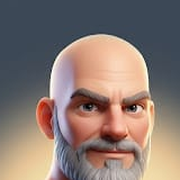
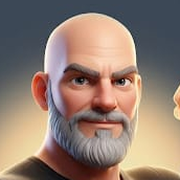
Add files via upload

diff --git a/index.html b/index.html
@@ -3,7 +3,7 @@
 <head>
 <meta charset="utf-8">
 <meta name="viewport" content="width=device-width, initial-scale=1, viewport-fit=cover">
-<title>Highschool English Practice</title>
+<title>English with Rami</title>
 <meta name="description" content="Vocabulary, grammar, unseens, movies and games for high school English.">
 <meta name="theme-color" content="#14244d">
 <link rel="manifest" href="manifest.webmanifest">
@@ -11,7 +11,7 @@
 <link rel="apple-touch-icon" href="apple-touch-icon.png">
 <meta name="apple-mobile-web-app-capable" content="yes">
 <meta name="mobile-web-app-capable" content="yes">
-<meta name="apple-mobile-web-app-title" content="English Practice">
+<meta name="apple-mobile-web-app-title" content="English with Rami">
 <meta name="apple-mobile-web-app-status-bar-style" content="black-translucent">
 <style>
   :root{ --navy:#14244d; --bg:#eef2f9; }
@@ -19,8 +19,9 @@
   body{ padding-top:env(safe-area-inset-top,0px); box-sizing:border-box; font:16px system-ui,-apple-system,Segoe UI,Roboto,sans-serif; color:var(--navy); }
   iframe{ position:absolute; inset:env(safe-area-inset-top,0px) 0 0 0; width:100%; height:calc(100% - env(safe-area-inset-top,0px)); border:0; background:var(--bg); }
   .splash{ position:fixed; inset:0; display:grid; place-items:center; background:var(--navy); color:#fff; z-index:5; transition:opacity .5s; text-align:center; padding:24px; }
-  .splash img{ width:120px; height:120px; border-radius:50%; border:4px solid #fff; box-shadow:0 10px 30px rgba(0,0,0,.35); animation:b 1.2s ease-in-out infinite; }
-  .splash b{ display:block; font-size:22px; margin-top:16px; } .splash span{ opacity:.8; font-size:15px; }
+  .splash img{ display:block; margin:0 auto; width:min(220px,56vw); height:min(220px,56vw); object-fit:cover; border-radius:50%; border:5px solid #fff; box-shadow:0 10px 30px rgba(0,0,0,.35); animation:b 1.2s ease-in-out infinite; }
+  .splash b{ display:block; font-size:24px; margin-top:20px; }
+  .splash > div{ display:flex; flex-direction:column; align-items:center; } .splash span{ opacity:.8; font-size:15px; }
   .splash.hide{ opacity:0; pointer-events:none; }
   @keyframes b{ 50%{ transform:translateY(-8px); } }
   .msg{ position:fixed; inset:0; display:none; place-items:center; background:var(--bg); z-index:6; padding:24px; text-align:center; }
@@ -28,16 +29,16 @@
 </style>
 </head>
 <body>
-<div class="splash" id="splash"><div><img src="icon-192.png" alt=""><b>Highschool English Practice</b><span>Loading… let’s go, champ! 💪</span></div></div>
+<div class="splash" id="splash"><div><img src="splash.jpg" alt=""><b>English with Rami</b><span>Loading… let’s go, champ! 💪</span></div></div>
 <div class="msg" id="off"><div><div style="font-size:54px">📶</div><b style="font-size:20px">No internet connection</b><div>Connect to Wi-Fi or mobile data and try again.</div><button onclick="location.reload()">Try again</button></div></div>
+<script src="config.js"></script>
 <script>
-/* ✏ THE ONLY LINE TO CHANGE: the link of your Apps Script site (it ends with /exec) */
-var APP_URL = 'https://script.google.com/macros/s/AKfycbxlo4QKexVxkwiVD4yF8-RNtKICDMcgAr6I-GMUMeyn0V5OEXt8GFEP-Q0lAGgZblEk/exec';
+var APP_URL = window.APP_URL || '';
 
 (function(){
   var splash=document.getElementById('splash'), off=document.getElementById('off');
   if(!/^https:\/\/script\.google\.com\/.+\/exec/.test(APP_URL)){
-    splash.innerHTML='<div><b>Almost ready!</b><span>Paste the link of the site (it ends with /exec) in index.html, in the line APP_URL.</span></div>';
+    splash.innerHTML='<div><b>Almost ready!</b><span>Paste the link of the site (it ends with /exec) in config.js.</span></div>';
     return;
   }
   if(navigator.onLine===false){ off.classList.add('on'); splash.classList.add('hide'); }
@@ -45,7 +46,7 @@ var APP_URL = 'https://script.google.com/macros/s/AKfycbxlo4QKexVxkwiVD4yF8-RNtK
   f.src=APP_URL+(location.search||'');          // ?page=teacher works too
   f.allow='autoplay; clipboard-write; fullscreen';
   f.setAttribute('allowfullscreen','');
-  f.title='Highschool English Practice';
+  f.title='English with Rami';
   f.onload=function(){ setTimeout(function(){ splash.classList.add('hide'); },300); };
   document.body.appendChild(f);
   setTimeout(function(){ splash.classList.add('hide'); },12000);

diff --git a/sw.js b/sw.js
@@ -1,5 +1,5 @@
 /* keeps the app's own small files on the phone, so it opens fast; the lessons themselves always come from the site */
-var C='english-practice-v1', FILES=['./','index.html','manifest.webmanifest','icon-192.png','icon-512.png','apple-touch-icon.png','favicon.png'];
+var C='english-practice-v3', FILES=['./','index.html','config.js','splash.jpg','manifest.webmanifest','icon-192.png','icon-512.png','apple-touch-icon.png','favicon.png'];
 self.addEventListener('install',function(e){ e.waitUntil(caches.open(C).then(function(c){ return c.addAll(FILES); })); self.skipWaiting(); });
 self.addEventListener('activate',function(e){ e.waitUntil(caches.keys().then(function(k){ return Promise.all(k.filter(function(x){ return x!==C; }).map(function(x){ return caches.delete(x); })); })); self.clients.claim(); });
 self.addEventListener('fetch',function(e){

diff --git a/config.js b/config.js
@@ -1,0 +1,2 @@
+/* ✏ THE ONLY LINE TO CHANGE: the link of your Apps Script site (it ends with /exec), between the quotes */
+var APP_URL = 'PASTE_YOUR_LINK_HERE';
